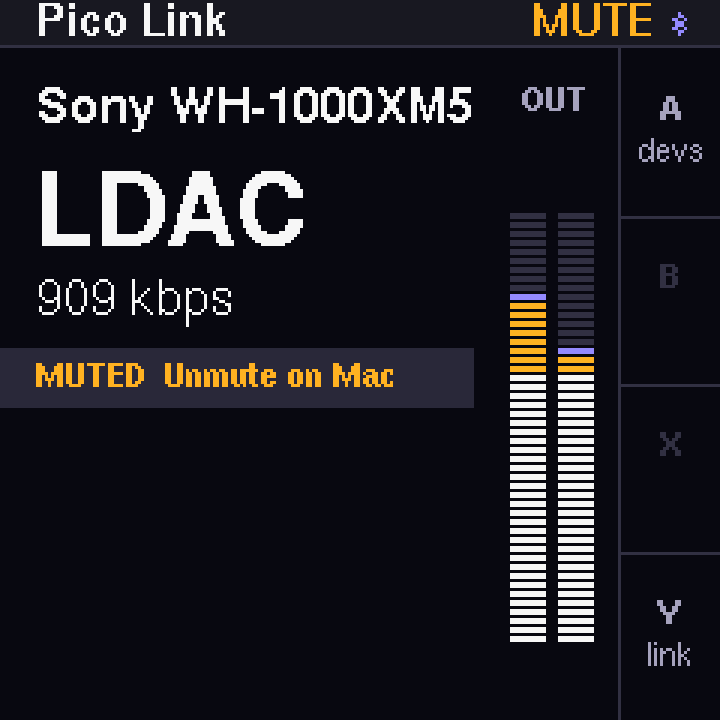
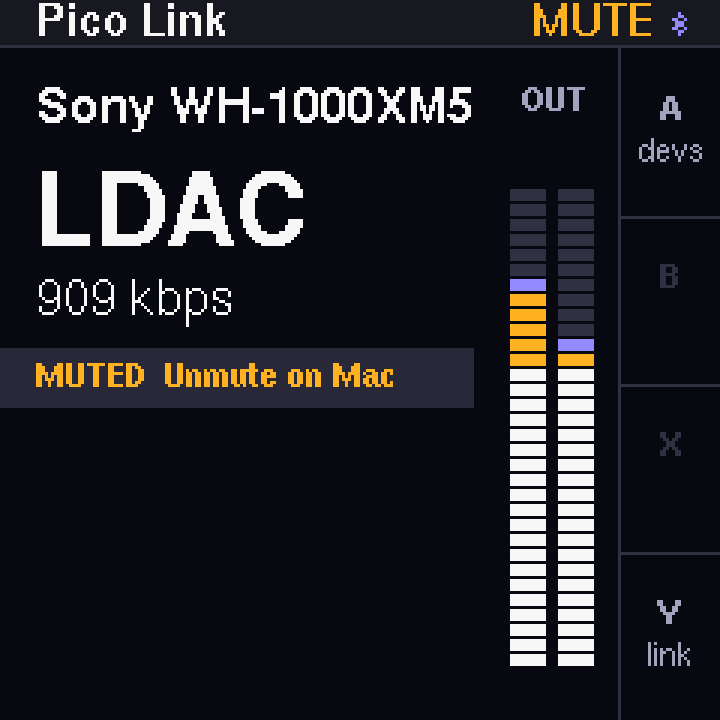
fix(core): revert device level meter to 32 segments, keep Iris colours
48 segments (bead pico-link-5ful.1) was meant for the WEB meter only.
Restores VERTICAL_METER_SEGMENT_COUNT/HEIGHT/TOP_PAD, the 32-entry
dBFS threshold table and the -4/-12 zone split from before c8e3641
(and hero.rs's "0..=16" expect strings, matching that same commit),
while keeping palette::METER_SAFE as the normal-zone colour instead
of reverting to TEXT_PRIMARY. Regenerated the two meter-bearing
Home screenshot fixtures; inspected both at zoom.

Bead: pico-link-5ful.3

Claude-Session: https://claude.ai/code/session_01JbqzjPvST9UcvXzcVMyrxA

Changed region(s): [[0.7028, 0.2444, 0.825, 0.9472]]

diff --git a/core/src/render/theme.rs b/core/src/render/theme.rs
@@ -677,49 +677,55 @@ where
 }
 
 /// Number of segments in one [`draw_vertical_level_meter`] channel column —
-/// `.planning/design/2026-09-27-visual-identity.md` §6 (bead
-/// pico-link-5ful.1): 48, up from 32 (itself up from
-/// `.planning/design/2026-09-03-vertical-out-meter.md` section 5's 16, doubled
-/// by bead pico-link-53c). 48 over -48..0 dBFS lands exactly 1 dB per
-/// segment (see [`VERTICAL_METER_DBFS_THRESHOLDS`]), making the colour-zone
-/// boundaries the conventional -18/-6 dBFS marks.
-const VERTICAL_METER_SEGMENT_COUNT: i32 = 48;
-/// Height (px) of a single vertical-meter segment. 48*2 + 47*1 = 143px fits
-/// the fixed 174px footprint (bead pico-link-5ful.1; see
-/// [`VERTICAL_METER_DRAWN_HEIGHT`]) -- 48*(3+1) = 191px would not, which is
-/// why the segment shrank to 2px rather than the gap changing.
-const VERTICAL_METER_SEGMENT_HEIGHT: i32 = 2;
+/// `.planning/design/2026-09-03-vertical-out-meter.md` section 5: 16, up
+/// from [`METER_SEGMENT_COUNT`]'s 8, doubled again to 32 by bead
+/// pico-link-53c once the smoothed damage pass made the meter worth
+/// judging at finer resolution. The horizontal meter's 8 segments in a
+/// 174px-tall column would read as a crude three-state light; 32 stay
+/// individually resolvable at 30-50cm and halve the dBFS step to 1.5dB
+/// (see [`VERTICAL_METER_DBFS_THRESHOLDS`]). Reverted here from a 48-segment
+/// geometry (bead pico-link-5ful.1) by bead pico-link-5ful.3: 48 was meant
+/// for the WEB meter only.
+const VERTICAL_METER_SEGMENT_COUNT: i32 = 32;
+/// Height (px) of a single vertical-meter segment. 32*9 + 31*2 would no
+/// longer fit the fixed 174px footprint the 16-segment geometry used, so
+/// bead pico-link-53c shrank this (and [`VERTICAL_METER_SEGMENT_GAP`])
+/// instead of changing [`VERTICAL_METER_GLYPH_HEIGHT`], which the
+/// surrounding layout depends on. 32*4 + 31*1 = 159px, 15px short of the
+/// 174px footprint; the drawn column is centred inside it via
+/// [`VERTICAL_METER_TOP_PAD`] rather than flush to the top or bottom edge.
+const VERTICAL_METER_SEGMENT_HEIGHT: i32 = 4;
 /// Gap (px) between adjacent vertical-meter segments — see
 /// [`VERTICAL_METER_SEGMENT_HEIGHT`]'s doc comment for how this and the
 /// segment height were chosen to fit inside the fixed footprint.
 const VERTICAL_METER_SEGMENT_GAP: i32 = 1;
-/// Height (px) of the actually-drawn column: 48 segments of
-/// [`VERTICAL_METER_SEGMENT_HEIGHT`] separated by 47 gaps of
-/// [`VERTICAL_METER_SEGMENT_GAP`] = 143px. Strictly less than
-/// [`VERTICAL_METER_GLYPH_HEIGHT`] — see that constant's doc comment for why
-/// the two are no longer equal.
+/// Height (px) of the actually-drawn column: 32 segments of
+/// [`VERTICAL_METER_SEGMENT_HEIGHT`] separated by 31 gaps of
+/// [`VERTICAL_METER_SEGMENT_GAP`]. Strictly less than
+/// [`VERTICAL_METER_GLYPH_HEIGHT`] as of bead pico-link-53c — see that
+/// constant's doc comment for why the two are no longer equal.
 const VERTICAL_METER_DRAWN_HEIGHT: i32 =
     VERTICAL_METER_SEGMENT_COUNT * VERTICAL_METER_SEGMENT_HEIGHT + (VERTICAL_METER_SEGMENT_COUNT - 1) * VERTICAL_METER_SEGMENT_GAP;
 /// Total footprint (px) of one full vertical meter column — fixed at 174,
 /// exactly the design's meter-block height (section 4). Held fixed rather
-/// than recomputed from the segment geometry because the surrounding layout
-/// is built against this exact number; 48 segments do not divide 174 evenly,
-/// so [`VERTICAL_METER_DRAWN_HEIGHT`] (143px) is centred inside this
-/// footprint instead via [`VERTICAL_METER_TOP_PAD`].
+/// than recomputed from the segment geometry (as it was before the
+/// 16-to-32 segment bump, bead pico-link-53c) because the surrounding
+/// layout is built against this exact number; 32 segments do not divide
+/// 174 evenly, so [`VERTICAL_METER_DRAWN_HEIGHT`] (159px) is centred inside
+/// this footprint instead via [`VERTICAL_METER_TOP_PAD`].
 pub const VERTICAL_METER_GLYPH_HEIGHT: u32 = 174;
 /// Padding (px) above the drawn column within [`VERTICAL_METER_GLYPH_HEIGHT`]'s
-/// footprint: half of the `174 - `[`VERTICAL_METER_DRAWN_HEIGHT`]` = 31`px
-/// of slack, so the column sits centred rather than flush to the top edge.
-/// Integer division rounds down, so any odd leftover pixel goes to the
-/// bottom pad instead — arbitrary but deterministic.
+/// footprint: half of the `174 - `[`VERTICAL_METER_DRAWN_HEIGHT`]` = 15`px
+/// of slack, so the column sits centred rather than flush to the top edge
+/// (bead pico-link-53c). Integer division rounds down, so any odd leftover
+/// pixel goes to the bottom pad instead — arbitrary but deterministic.
 const VERTICAL_METER_TOP_PAD: i32 = (VERTICAL_METER_GLYPH_HEIGHT as i32 - VERTICAL_METER_DRAWN_HEIGHT) / 2;
 
 /// dBFS threshold, per vertical-meter segment, that `level` (linear 0-255,
 /// see [`draw_vertical_level_meter`]'s doc comment) must meet or exceed for
-/// that segment to be considered "lit" — bead pico-link-ajj, resized to 48
-/// entries by bead pico-link-5ful.1.
+/// that segment to be considered "lit" — bead pico-link-ajj.
 ///
-/// A linear `level*16/256` mapping (the original behaviour) put typical
+/// A linear `level*16/256` mapping (the previous behaviour) put typical
 /// music RMS (-10..-20 dBFS, i.e. 0.1-0.3 linear) at only 1-3 of 16
 /// segments: a level meter reads amplitude on a log scale, not a linear
 /// one, so a linear segment count is wrong on any real program material,
@@ -727,26 +733,25 @@ const VERTICAL_METER_TOP_PAD: i32 = (VERTICAL_METER_GLYPH_HEIGHT as i32 - VERTIC
 ///
 /// `core` is `no_std` with no `libm`, so this is a precomputed const table
 /// rather than a `log10` call at render time. Each entry is
-/// `round(255 * 10^((-48 + i + 1) / 20))` for `i` in `0..48` — exactly 1 dB
-/// per segment (design `.planning/design/2026-09-27-visual-identity.md` §6),
-/// spanning -48 dBFS (segment 1 lit) to 0 dBFS (full scale, all 48 lit).
-/// Segment `i`'s threshold is this array's `i`-th entry (0-indexed,
-/// quietest/bottom-most first, same convention as
+/// `round(255 * 10^((-48 + 1.5*(i+1)) / 20))` for `i` in `0..32` — a 1.5
+/// dB-per-segment scale (halved from 3dB by bead pico-link-53c, doubling
+/// the segment count from 16 to 32) spanning -48 dBFS (segment 1 lit) to
+/// 0 dBFS (full scale, all 32 lit). Segment `i`'s threshold is this array's
+/// `i`-th entry (0-indexed, quietest/bottom-most first, same convention as
 /// [`vertical_level_segment_color`]).
 ///
-/// Only 38 of the 48 entries are distinct — unavoidable once a 1dB step is
-/// quantised onto a linear 0-255 input at the quiet end of the scale, where
-/// consecutive dB steps are only a fraction of a linear unit apart. The
-/// bottom 18 segments (-48..-30 dBFS) share just 8 distinct thresholds and
-/// move in clumps of 2-3; flagged as a known, accepted limit (design §6) --
-/// harmless for music, which lives above -30 dBFS. A true 1dB step at the
-/// bottom needs a wider (u16) level or a dB-domain u8 fed from C.
+/// Several of the lowest entries round to the same `u8` (`1, 1, 2, 2, 2, 3,
+/// 3, ...`) — unavoidable once a 1.5dB step is quantised onto a linear 0-255
+/// input at the quiet end of the scale, where consecutive dB steps are only
+/// a couple of linear units apart. The practical effect is that the bottom
+/// few segments light together rather than strictly one at a time; this was
+/// called out and accepted when the segment count was doubled, not an
+/// oversight.
 const VERTICAL_METER_DBFS_THRESHOLDS: [u8; VERTICAL_METER_SEGMENT_COUNT as usize] = [
-    1, 1, 1, 2, 2, 2, 2, 3, 3, 3, 4, 4, 5, 5, 6, 6, 7, 8, 9, 10, 11, 13, 14, 16, 18, 20, 23, 26, 29, 32, 36, 40, 45, 51, 57, 64,
-    72, 81, 90, 102, 114, 128, 143, 161, 181, 203, 227, 255,
+    1, 1, 2, 2, 2, 3, 3, 4, 5, 6, 7, 8, 10, 11, 14, 16, 19, 23, 27, 32, 38, 45, 54, 64, 76, 90, 108, 128, 152, 181, 215, 255,
 ];
 
-/// Maps a linear 0-255 level to a segment *count* (0..=48) via
+/// Maps a linear 0-255 level to a segment *count* (0..=32) via
 /// [`VERTICAL_METER_DBFS_THRESHOLDS`]: the number of thresholds `level`
 /// meets or exceeds. Shared by the moving bar (`filled`) and the peak-hold
 /// cap (`hold_index`) in [`draw_vertical_level_meter`] so both read off one
@@ -764,21 +769,24 @@ pub(crate) fn vertical_level_dbfs_segment_count(level: u8) -> i32 {
 }
 
 /// Which colour segment `index` (0-based, quietest/bottom-most first) draws
-/// in when filled — design `.planning/design/2026-09-27-visual-identity.md`
-/// §6 (bead pico-link-5ful.1): at 1dB/segment, the conventional dBFS zone
-/// marks land exactly on segment boundaries. Red = top 6 (indices 42-47,
-/// -6..0 dBFS); amber = the next 12 (indices 30-41, -18..-6 dBFS, -18 being
-/// the EBU alignment level); safe = the bottom 30 (indices 0-29), in
-/// [`palette::METER_SAFE`] rather than [`palette::TEXT_PRIMARY`] (design §2:
-/// decoupled so Ink's white peak-hold cap stays visible against a white safe
-/// zone). Same 5/8, 2/8, 1/8 proportions the meter has always used --
-/// porting the *indices* from a previous segment count instead of
-/// recomputing them from the proportions is the trap this doc comment has
-/// warned about since the 16- and 32-segment geometries.
+/// in when filled — design section 5: the colour zones keep the *same
+/// proportions* as the horizontal meter (green bottom 5/8, amber next 2/8,
+/// red top 1/8), not the literal indices, since porting the indices from
+/// [`level_segment_color`] verbatim would halve the red zone at 16
+/// segments. At 16 (before bead pico-link-53c doubled the segment count):
+/// green bottom 10/16 (indices 0-9), amber next 4/16 (indices 10-13), red
+/// top 2/16 (indices 14-15). At 32, the same proportions become green
+/// bottom 20/32 (indices 0-19), amber next 8/32 (indices 20-27), red top
+/// 4/32 (indices 28-31) — this is exactly the trap this doc comment already
+/// warned about: porting the *indices* (`-2`/`-6`) instead of recomputing
+/// them from the proportions would have halved the red zone again. The
+/// "green" zone renders in [`palette::METER_SAFE`], not
+/// [`palette::TEXT_PRIMARY`] (bead pico-link-5ful.1's palette decoupling,
+/// kept across the pico-link-5ful.3 segment-count revert).
 fn vertical_level_segment_color(index: i32) -> Rgb565 {
-    if index >= VERTICAL_METER_SEGMENT_COUNT - 6 {
+    if index >= VERTICAL_METER_SEGMENT_COUNT - 4 {
         palette::STATUS_ERROR
-    } else if index >= VERTICAL_METER_SEGMENT_COUNT - 18 {
+    } else if index >= VERTICAL_METER_SEGMENT_COUNT - 12 {
         palette::STATUS_WARNING
     } else {
         palette::METER_SAFE
@@ -1094,29 +1102,30 @@ mod tests {
         let mut fb = FrameBuffer565::new(20, 180);
         let rect = Rectangle::new(Point::new(0, 0), Size::new(12, VERTICAL_METER_GLYPH_HEIGHT));
         draw_vertical_level_meter(&mut fb, rect, 255, 0).unwrap();
-        // Bottom 30/48 segments (indices 0-29) are the safe zone -- same
-        // 5/8 proportion as the earlier geometries, now 1dB/segment (design
-        // `.planning/design/2026-09-27-visual-identity.md` §6, bead
-        // pico-link-5ful.1).
-        for i in 0..30 {
+        // Bottom 20/32 segments (indices 0-19) are the safe zone -- same
+        // 5/8 proportion as the 16-segment geometry, doubled by bead
+        // pico-link-53c. Renders in METER_SAFE, not TEXT_PRIMARY (bead
+        // pico-link-5ful.1's palette decoupling, kept across the
+        // pico-link-5ful.3 segment-count revert).
+        for i in 0..20 {
             assert_eq!(
                 vertical_meter_segment_color_at(&fb, rect, i),
                 palette::METER_SAFE,
                 "segment {i} from the bottom must be in the safe (METER_SAFE) zone"
             );
         }
-        // Next 12/48 (indices 30-41) are the amber zone, -18..-6 dBFS.
-        for i in 30..42 {
+        // Next 8/32 (indices 20-27) are the amber zone.
+        for i in 20..28 {
             assert_eq!(
                 vertical_meter_segment_color_at(&fb, rect, i),
                 palette::STATUS_WARNING,
                 "segment {i} from the bottom must be in the amber (STATUS_WARNING) zone"
             );
         }
-        // Top 6/48 (indices 42-47) are the red zone, -6..0 dBFS -- porting
-        // the horizontal meter's literal indices (top 1/8) instead of the
-        // proportion would wrongly leave index 42 amber.
-        for i in 42..48 {
+        // Top 4/32 (indices 28-31) are the red zone -- porting the
+        // horizontal meter's literal indices (top 1/8) instead of the
+        // proportion would wrongly leave index 28 amber.
+        for i in 28..32 {
             assert_eq!(
                 vertical_meter_segment_color_at(&fb, rect, i),
                 palette::STATUS_ERROR,
@@ -1126,25 +1135,25 @@ mod tests {
     }
 
     #[test]
-    fn draw_vertical_level_meter_half_linear_scale_fills_42_of_48_on_the_dbfs_scale() {
+    fn draw_vertical_level_meter_half_linear_scale_fills_28_of_32_on_the_dbfs_scale() {
         // 128/255 linear is -6 dBFS, not -infinity-to-0's midpoint -- on a
         // log scale that is loud, not "half". This replaces a pre-pico-
         // link-ajj test that expected a linear split; the dBFS mapping is
         // the point of this bead, so the old expectation would be testing
-        // the bug. 42/48 (bead pico-link-5ful.1's 1dB-per-segment scale)
-        // lands -6 dBFS's 42-segment fill exactly at the safe/amber/red
-        // boundary the top 6-segment red zone starts at.
+        // the bug. 28/32 (bead pico-link-53c's 1.5dB-per-segment scale)
+        // lands -6 dBFS's 28-segment fill exactly at the safe/amber/red
+        // boundary the top 4-segment red zone starts at.
         let mut fb = FrameBuffer565::new(20, 180);
         let rect = Rectangle::new(Point::new(0, 0), Size::new(12, VERTICAL_METER_GLYPH_HEIGHT));
         draw_vertical_level_meter(&mut fb, rect, 128, 0).unwrap();
-        for i in 0..42 {
+        for i in 0..28 {
             assert_ne!(
                 vertical_meter_segment_color_at(&fb, rect, i),
                 palette::DIVIDER,
                 "segment {i} from the bottom should be filled at level=128 (-6 dBFS)"
             );
         }
-        for i in 42..48 {
+        for i in 28..32 {
             assert_eq!(
                 vertical_meter_segment_color_at(&fb, rect, i),
                 palette::DIVIDER,
@@ -1154,8 +1163,8 @@ mod tests {
     }
 
     #[test]
-    fn vertical_level_dbfs_segment_count_full_scale_fills_48() {
-        assert_eq!(vertical_level_dbfs_segment_count(255), 48);
+    fn vertical_level_dbfs_segment_count_full_scale_fills_32() {
+        assert_eq!(vertical_level_dbfs_segment_count(255), 32);
     }
 
     #[test]
@@ -1164,15 +1173,15 @@ mod tests {
     }
 
     #[test]
-    fn vertical_level_dbfs_segment_count_typical_music_rms_lands_around_segment_28() {
+    fn vertical_level_dbfs_segment_count_typical_music_rms_lands_around_segment_18() {
         // 0.1 linear RMS (-20 dBFS) is squarely in typical-music territory
         // (bead pico-link-ajj) -- the linear mapping this replaces put it
         // at only a handful of segments; a dBFS mapping must land it well
-        // up the column instead. At the 1dB-per-segment, 48-segment scale
-        // (bead pico-link-5ful.1), -20 dBFS is `(-20 - -48) / 1 = 28`
-        // segments up from the floor.
+        // up the column instead. At the 1.5dB-per-segment, 32-segment scale
+        // (bead pico-link-53c doubled from 16 at 3dB/segment), -20 dBFS is
+        // `(-20 - -48) / 1.5 = 18.67` segments up from the floor.
         let filled = vertical_level_dbfs_segment_count(26); // round(0.1 * 255)
-        assert!((27..=29).contains(&filled), "expected ~segment 28, got {filled}");
+        assert!((17..=19).contains(&filled), "expected ~segment 18, got {filled}");
     }
 
     #[test]

diff --git a/core/src/render/hero.rs b/core/src/render/hero.rs
@@ -1330,10 +1330,10 @@ impl Widget for HeroStatusView {
                 let hold_segments_r = theme::vertical_level_dbfs_segment_count(level.hold_r);
                 key.fold(1)
                     .fold(level.received_at.as_micros())
-                    .fold(u64::try_from(segments_l).expect("segment count is in 0..=48"))
-                    .fold(u64::try_from(segments_r).expect("segment count is in 0..=48"))
-                    .fold(u64::try_from(hold_segments_l).expect("segment count is in 0..=48"))
-                    .fold(u64::try_from(hold_segments_r).expect("segment count is in 0..=48"))
+                    .fold(u64::try_from(segments_l).expect("segment count is in 0..=16"))
+                    .fold(u64::try_from(segments_r).expect("segment count is in 0..=16"))
+                    .fold(u64::try_from(hold_segments_l).expect("segment count is in 0..=16"))
+                    .fold(u64::try_from(hold_segments_r).expect("segment count is in 0..=16"))
                     .fold(u64::from(stale))
             }
         }
